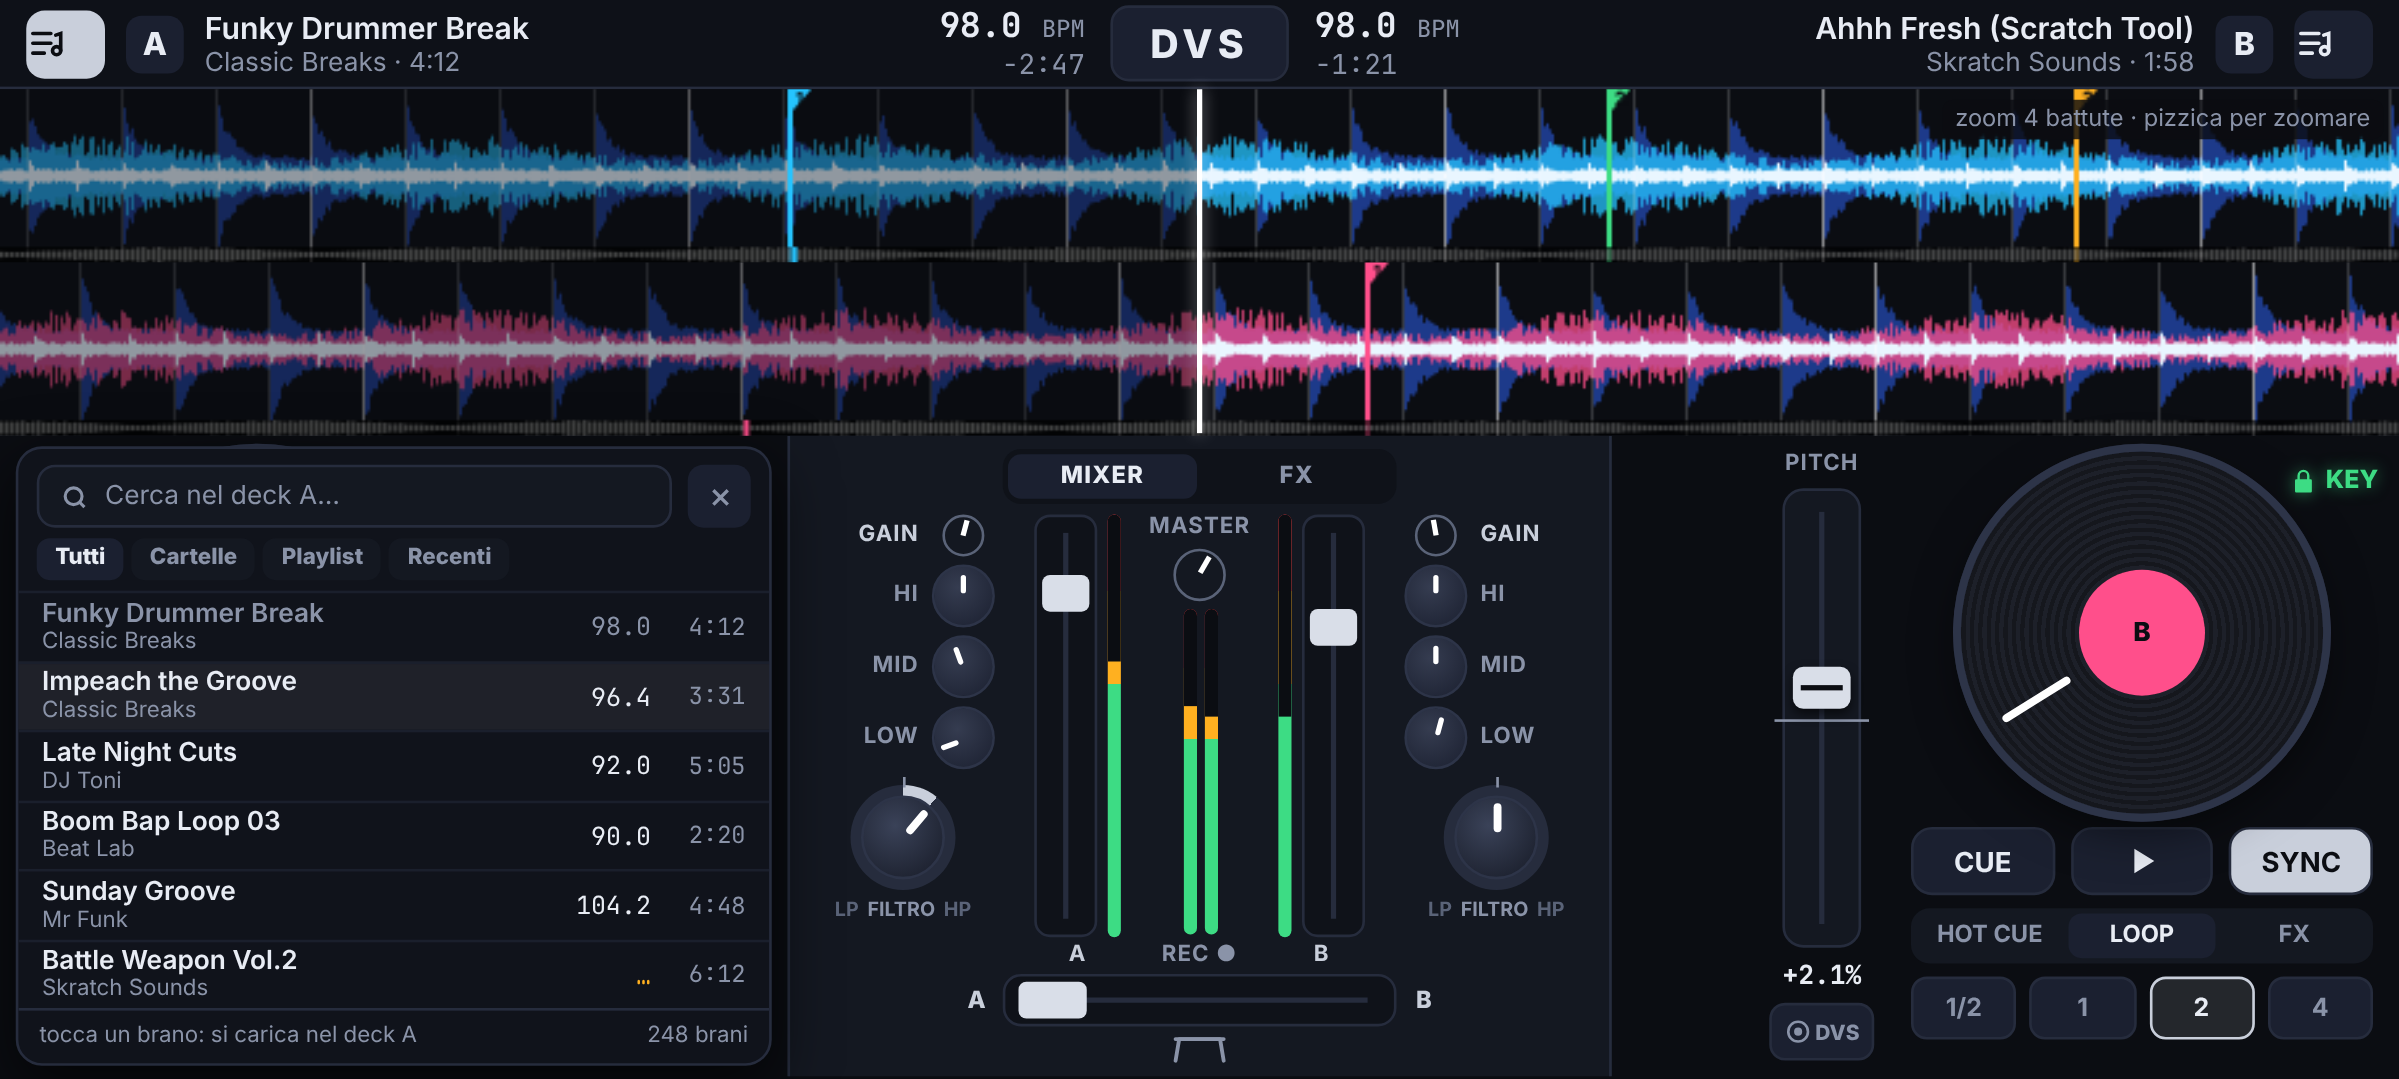
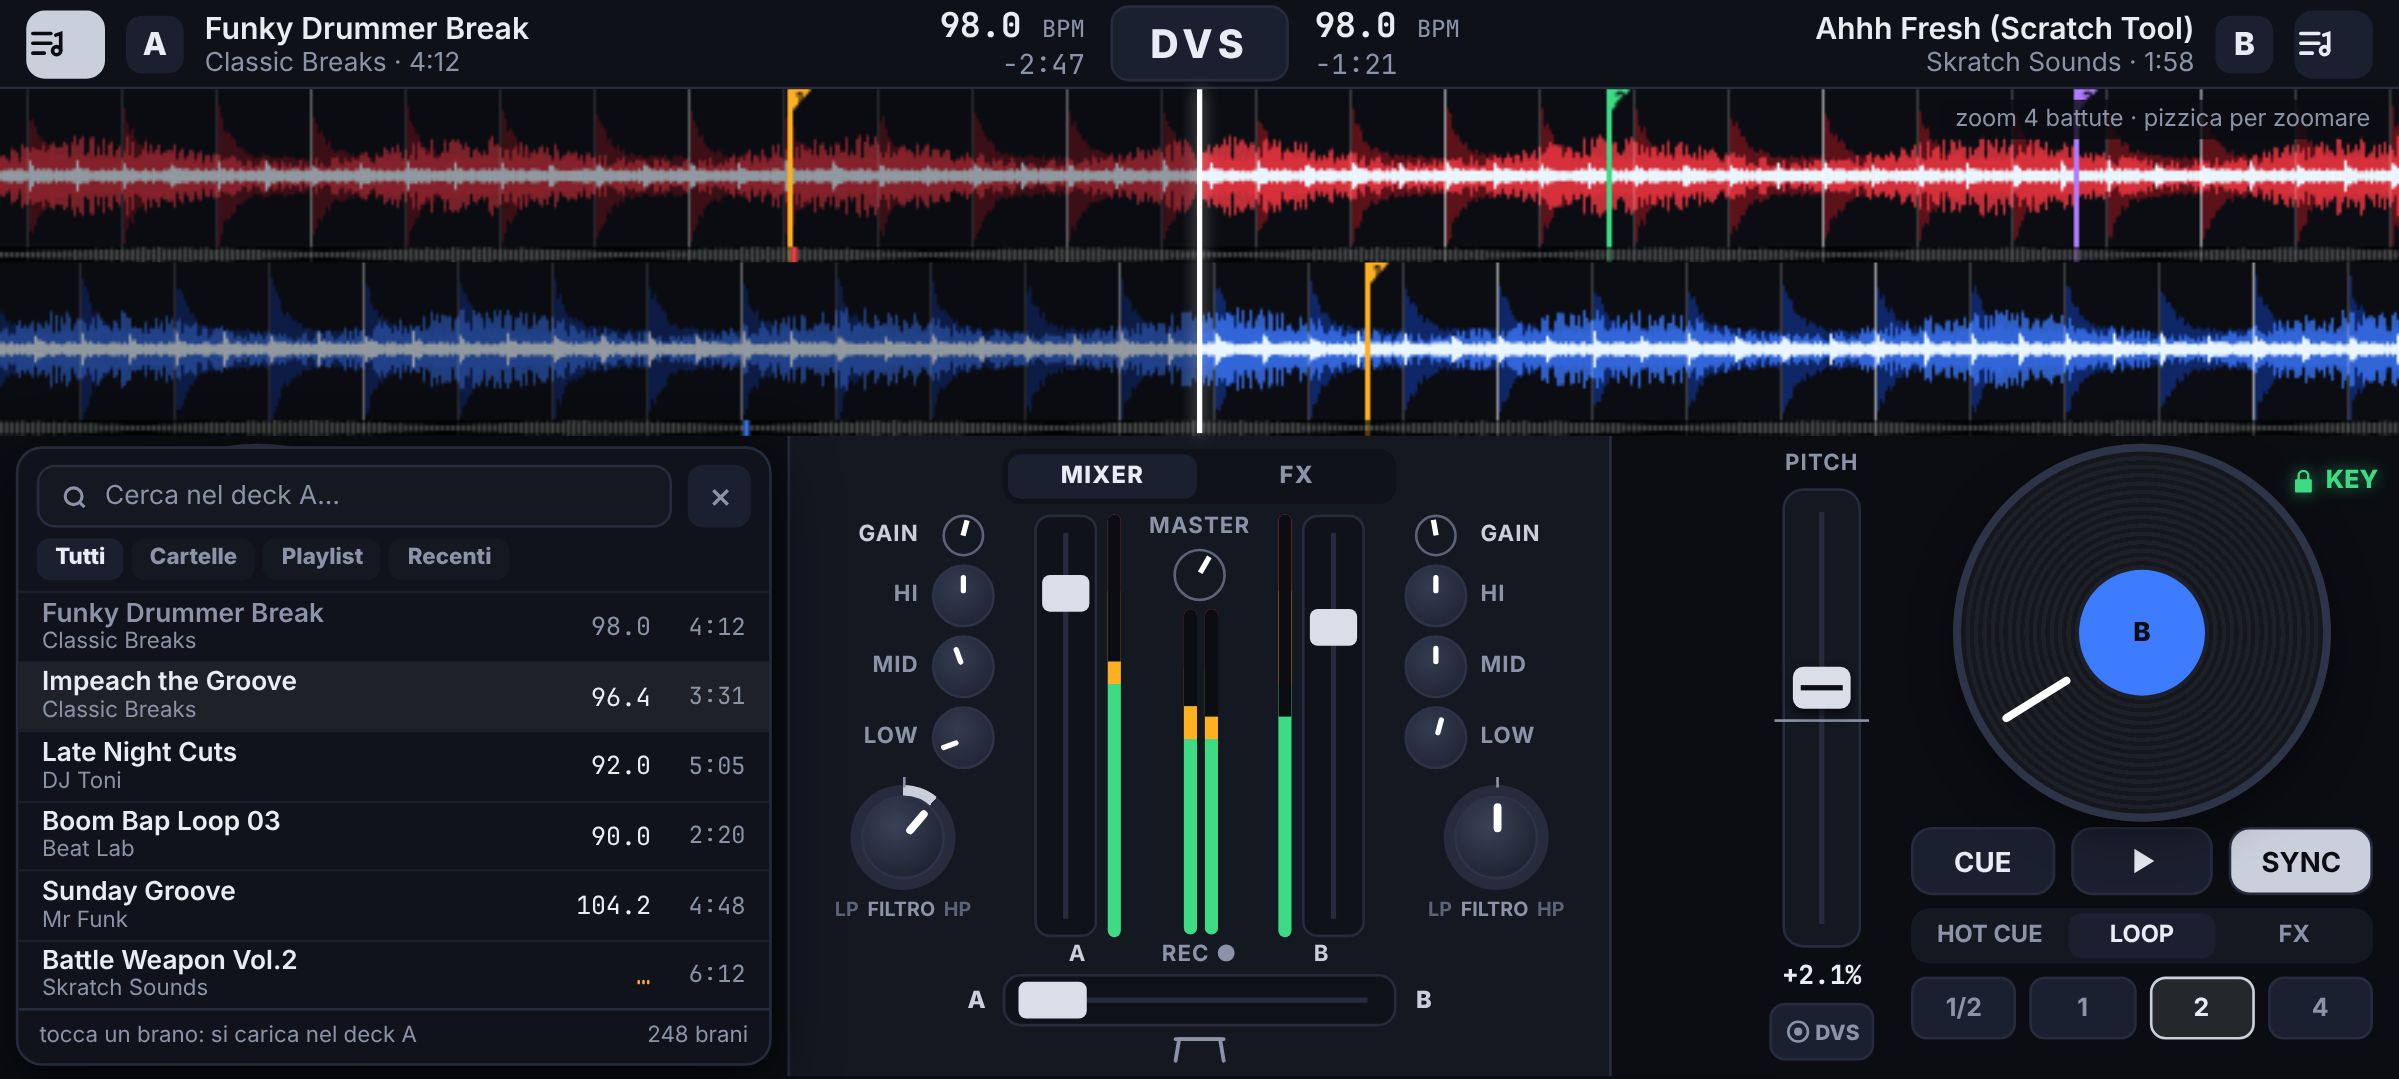
Colori dei deck: A rosso, B blu (dischi, waveform, icona)
Claude-Session: https://claude.ai/code/session_01Q6837TbCDCCjM1wxVviTqv

Changed region(s): [[0.0, 0.0918, 1.0, 0.2447], [0.0, 0.2447, 1.0, 0.367], [0.8637, 0.5199, 0.9254, 0.6423]]

diff --git a/design/bozze.html b/design/bozze.html
@@ -6,7 +6,7 @@
 <style>
 :root{
   --bg:#0b0d12; --panel:#141821; --panel2:#1b2030; --line:#262c3d; --txt:#e8ecf4; --dim:#8a93a8;
-  --a:#c9cfdb; --b:#c9cfdb; --da:#25c4ff; --db:#ff4f8b; --ok:#3ddc84; --warn:#ffb020;
+  --a:#c9cfdb; --b:#c9cfdb; --da:#ff3b47; --db:#3d7bff; --ok:#3ddc84; --warn:#ffb020;
 }
 *{box-sizing:border-box;margin:0;padding:0}
 html,body{width:914px;height:411px;overflow:hidden;background:var(--bg);color:var(--txt);
@@ -247,7 +247,7 @@ html,body{width:914px;height:411px;overflow:hidden;background:var(--bg);color:va
         <div class="platter"><div class="ring" style="border-color:#2d3448"></div><div class="mk" style="transform:rotate(38deg)"></div><div class="lab" style="background:var(--da)">A</div></div>
         <div class="tr"><div class="btn">CUE</div><div class="btn play on" style="background:var(--a)"><svg viewBox="0 0 24 24" fill="currentColor"><path d="M6 4h4v16H6zM14 4h4v16h-4z"/></svg></div><div class="btn on" style="background:var(--a)">SYNC</div></div>
         <div class="tabs"><div class="tab on">HOT CUE</div><div class="tab">LOOP</div><div class="tab">FX</div></div>
-        <div class="pads"><div class="pad"><span style="display:inline-block;width:5px;height:5px;border-radius:50%;background:#25c4ff;margin-right:4px;vertical-align:1px"></span>1</div><div class="pad"><span style="display:inline-block;width:5px;height:5px;border-radius:50%;background:#3ddc84;margin-right:4px;vertical-align:1px"></span>2</div><div class="pad"><span style="display:inline-block;width:5px;height:5px;border-radius:50%;background:#ffb020;margin-right:4px;vertical-align:1px"></span>3</div><div class="pad">4</div></div>
+        <div class="pads"><div class="pad"><span style="display:inline-block;width:5px;height:5px;border-radius:50%;background:#ffb020;margin-right:4px;vertical-align:1px"></span>1</div><div class="pad"><span style="display:inline-block;width:5px;height:5px;border-radius:50%;background:#3ddc84;margin-right:4px;vertical-align:1px"></span>2</div><div class="pad"><span style="display:inline-block;width:5px;height:5px;border-radius:50%;background:#b07cff;margin-right:4px;vertical-align:1px"></span>3</div><div class="pad">4</div></div>
       </div>
       <div class="pitch"><div class="lbl">PITCH</div><div class="vslider"><div class="mid"></div><div class="cap" style="top:calc(50% - 8px)"></div></div><div class="pv">+0.0%</div><div class="klock on" style="background:#c9cfdb;border-color:#c9cfdb"><svg viewBox="0 0 24 24" fill="none" stroke="currentColor" stroke-width="2.4"><circle cx="12" cy="12" r="9"/><circle cx="12" cy="12" r="2.5" fill="currentColor"/></svg>DVS</div></div>
     </div>
@@ -361,7 +361,7 @@ html,body{width:914px;height:411px;overflow:hidden;background:var(--bg);color:va
 <script>
 // generatore pseudo-casuale riproducibile
 function rng(seed){return function(){seed|=0;seed=seed+0x6D2B79F5|0;let t=Math.imul(seed^seed>>>15,1|seed);t=t+Math.imul(t^t>>>7,61|t)^t;return((t^t>>>14)>>>0)/4294967296}}
-function wave(id,seed,accent,cues){
+function wave(id,seed,accent,cues,lowc){
   const c=document.getElementById(id),x=c.getContext('2d'),W=c.width,H=c.height,r=rng(seed);
   x.fillStyle='#0b0d12';x.fillRect(0,0,W,H);
   const beat=36; // pixel per battuta (zoom)
@@ -373,7 +373,7 @@ function wave(id,seed,accent,cues){
     const mid=(0.25+0.35*r())*(0.7+0.3*Math.sin(i/23));
     const hi=(0.12+hat*0.6)*(0.6+0.4*r());
     const m=H/2;
-    x.fillStyle='#1d3a8a';x.fillRect(i,m-low*m*0.95,1,low*m*1.9);
+    x.fillStyle=lowc;x.fillRect(i,m-low*m*0.95,1,low*m*1.9);
     x.fillStyle=accent;x.globalAlpha=.75;x.fillRect(i,m-mid*m*0.8,1,mid*m*1.6);x.globalAlpha=1;
     x.fillStyle='#e9f6ff';x.fillRect(i,m-hi*m*0.7,1,hi*m*1.4);
   }
@@ -392,8 +392,8 @@ function wave(id,seed,accent,cues){
   for(let i=0;i<W;i+=2){const v=0.3+0.7*Math.abs(Math.sin(i/37+seed))*(0.6+0.4*r());x.fillStyle='#ffffff40';x.fillRect(i,H-6+(6-v*6)/2,1.5,v*6)}
   x.fillStyle=accent;x.fillRect(W*(seed%2?0.33:0.31),H-6,2,6);
 }
-wave('wa',3,'#25c4ff',[[300,'#25c4ff','1'],[612,'#3ddc84','2'],[790,'#ffb020','3']]);
-wave('wb',8,'#ff4f8b',[[520,'#ff4f8b','1']]);
+wave('wa',3,'#ff3b47',[[300,'#ffb020','1'],[612,'#3ddc84','2'],[790,'#b07cff','3']],'#5c1219');
+wave('wb',8,'#3d7bff',[[520,'#ffb020','1']],'#0f2766');
 
 const tracks=[
  ['Funky Drummer Break','Classic Breaks','98.0','4:12','MP3','#25c4ff',1],

diff --git a/CLAUDE.md b/CLAUDE.md
@@ -27,8 +27,10 @@ L'app si chiama **DVS** (27/10/2026; prima "Djaaay"). Nel codice il package Kotl
 
 ## Grafica decisa (bozze in `design/`, sorgente `design/bozze.html`)
 
-- Tema scuro **neutro** (grigi/bianco). Colore SOLO nelle **waveform** (deck A azzurro, deck B rosa, bande blu/colore/bianco
-  per bassi/medi/alti) e nel **centro dei dischi** (A azzurro, B rosa). Niente bottoni/scritte colorati per deck.
+- Tema scuro **neutro** (grigi/bianco). Colore SOLO nelle **waveform** e nel **centro dei dischi**: deck A **rosso**
+  (#FF3B47, bassi #5C1219), deck B **blu** (#3D7BFF, bassi #0F2766); nelle waveform bassi = tono scuro del deck,
+  medi = colore del deck, alti = bianco. Hot cue: 1 giallo #FFB020, 2 verde #3DDC84, 3 viola #B07CFF, 4 bianco.
+  Niente bottoni/scritte colorati per deck (eccezione: KEY acceso in verde).
 - In alto: per deck pulsante **libreria** all'estremità (A a sinistra, B a destra), titolo, artista, BPM, tempo mancante.
   Al centro il nome **DVS**: toccandolo si aprono le **Opzioni** (nessun pulsante ingranaggio).
 - **Waveform alte** (2 strisce, A sopra B), puntina fissa al centro, griglia battute, bandierine hot cue,
